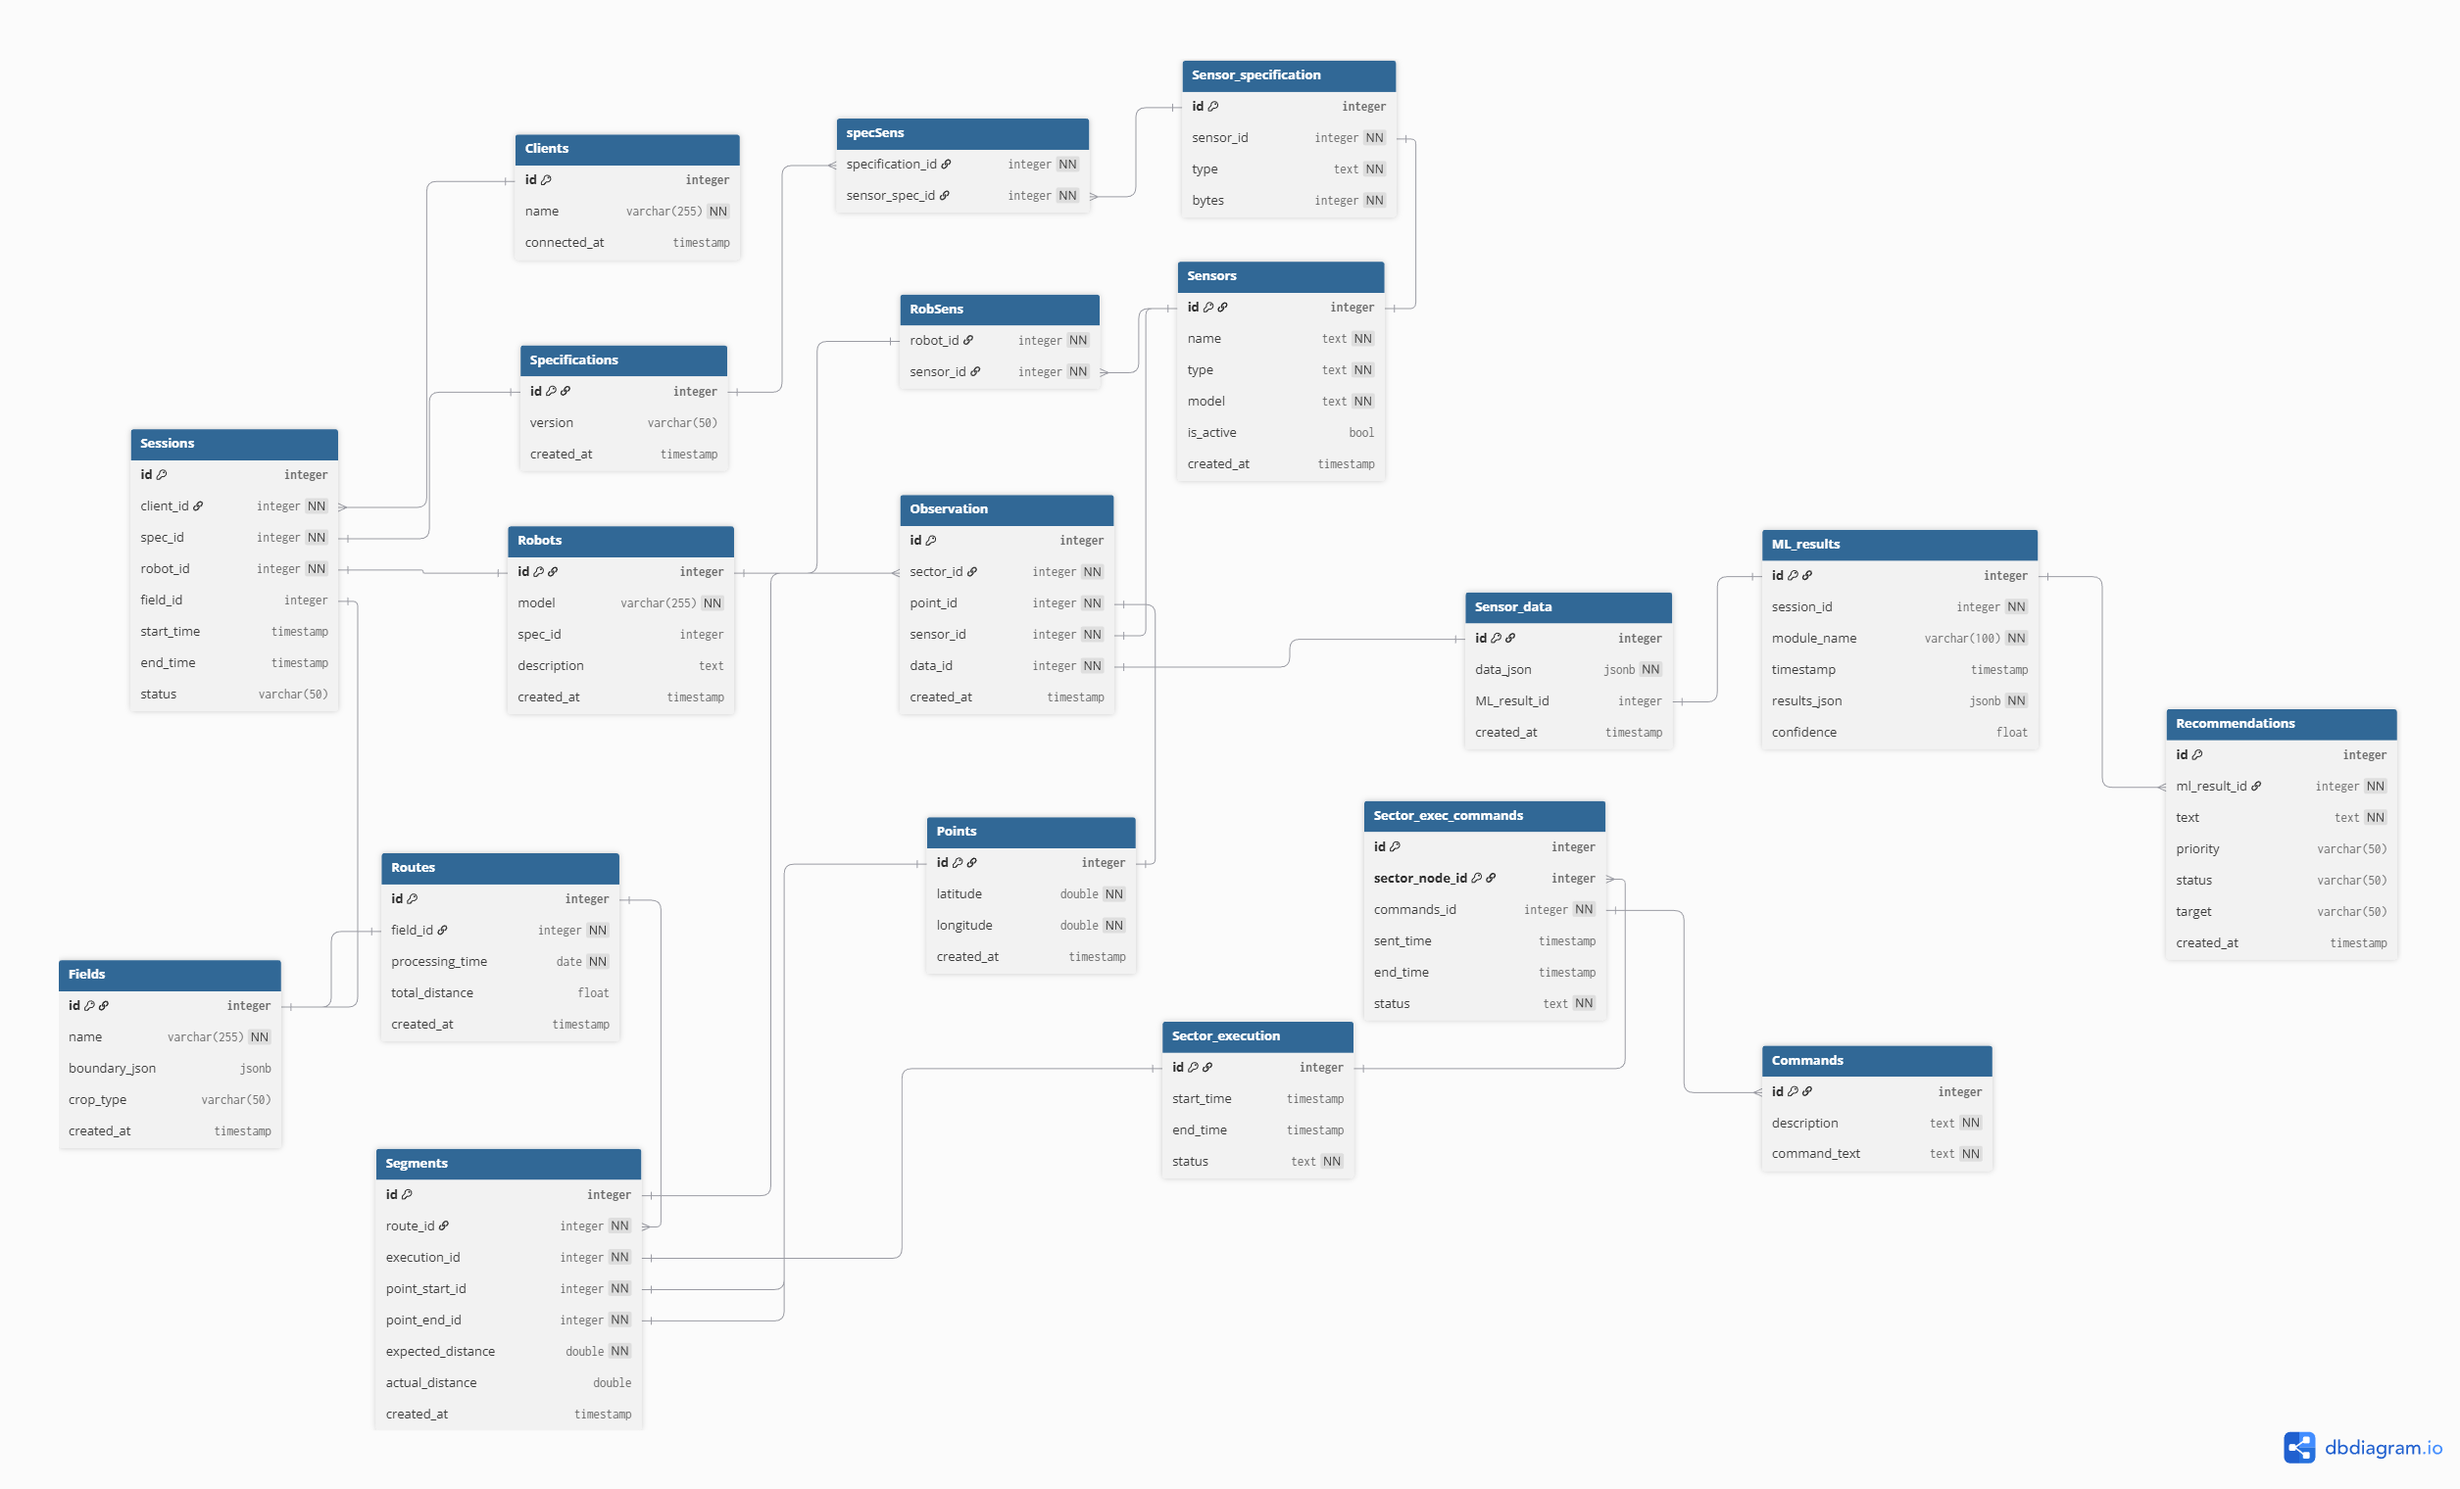
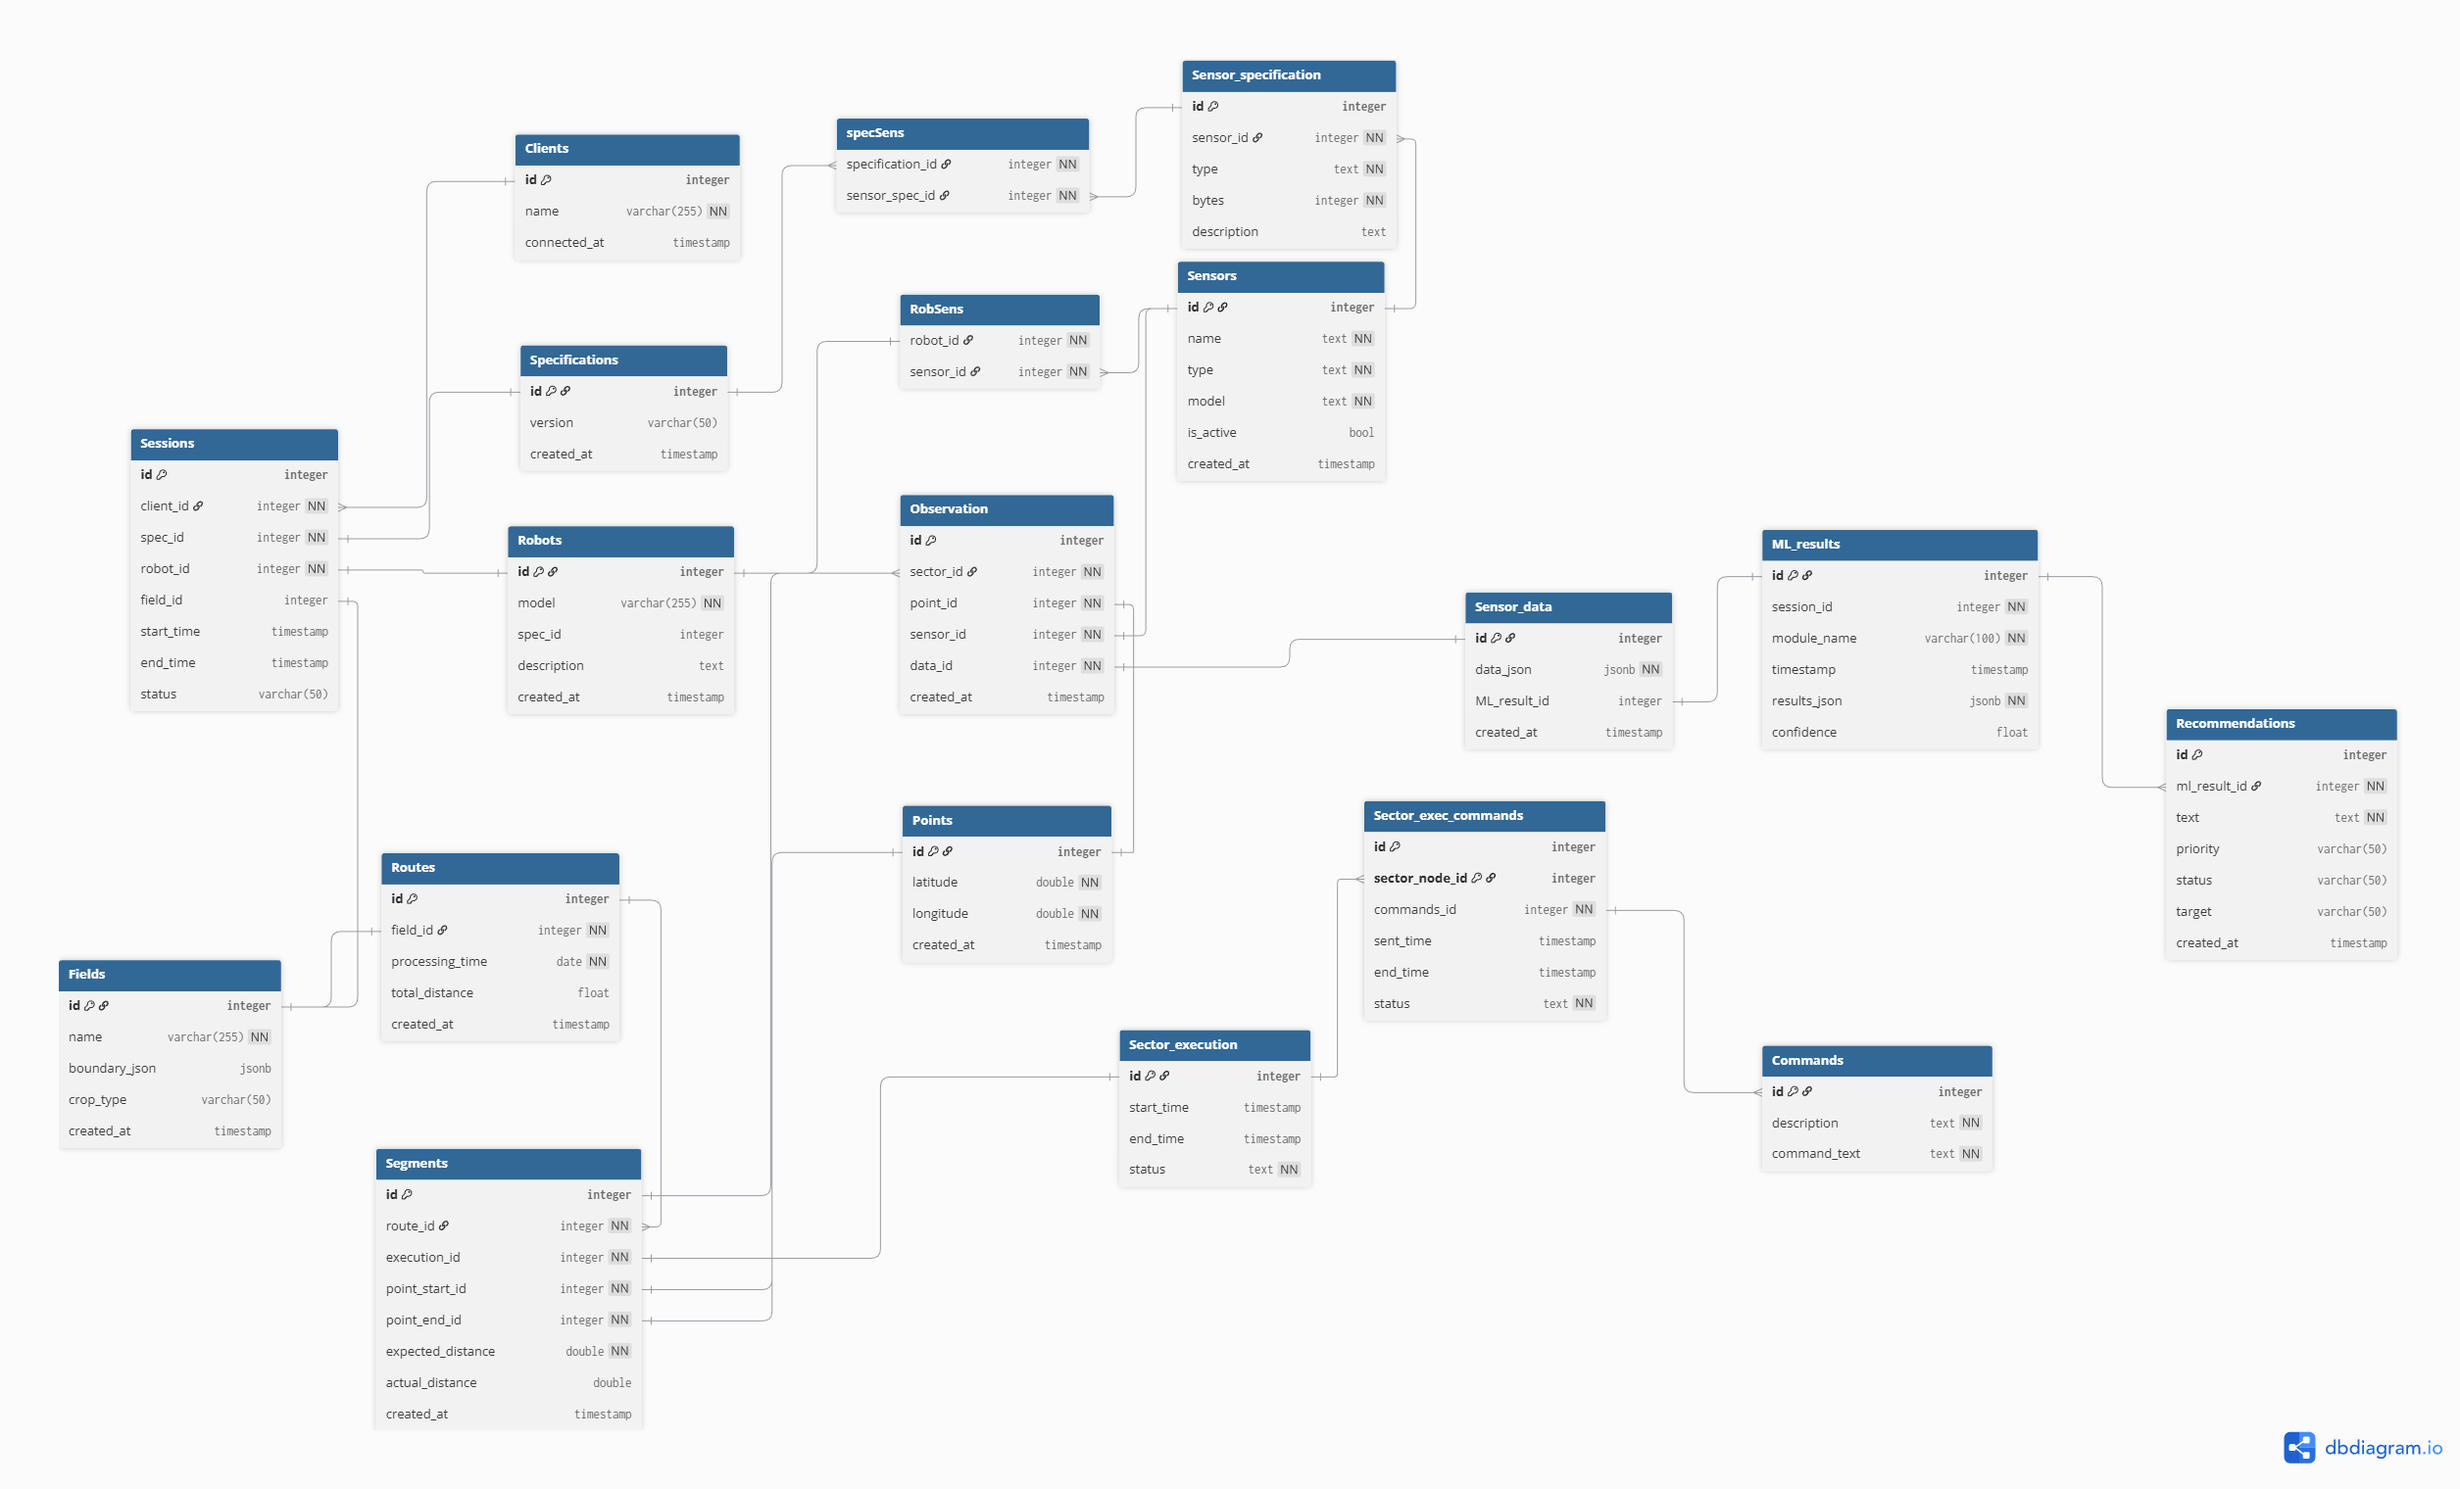
Исправила структуру SensorSpecData и методы SQLiteDb, обновила schema.sql

Changed region(s): [[0.3418, 0.5257, 0.4661, 0.6493], [0.4351, 0.6803, 0.5594, 0.773], [0.5283, 0.773, 0.5594, 0.8039]]

diff --git a/src/db/sqlitedb/sqlitedb.cpp b/src/db/sqlitedb/sqlitedb.cpp
@@ -208,10 +208,11 @@ StatusCode SQLiteDb::addSensorSpecification(const SensorSpecData& data)
     }
 
     QSqlQuery query(db);
-    query.prepare("INSERT INTO Sensor_specification (sensor_id, type, bytes) VALUES (:s,:t,:b)");
+    query.prepare("INSERT INTO Sensor_specification (sensor_id, type, bytes, description) VALUES (:s,:t,:b, :d)");
     query.bindValue(":s", data.sensorId);
     query.bindValue(":t", data.type);
     query.bindValue(":b", data.bytes);
+    query.bindValue(":d", data.description.isEmpty() ? QVariant(QVariant::String) : data.description);
 
 
     if (!query.exec()) {
@@ -270,7 +271,8 @@ StatusCode SQLiteDb::addRobSens(const RobSensData& data)
     }
 
     QSqlQuery query(db);
-    query.prepare("INSERT INTO RobSens (robot_id, sensor_id) VALUES (:robot,:sensor)");
+    query.prepare("INSERT OR IGNORE INTO RobSens (robot_id, sensor_id) VALUES (:robot,:sensor)");
+
     query.bindValue(":robot", data.robotId);
     query.bindValue(":sensor", data.sensorId);
 

diff --git a/include/datatypes.h b/include/datatypes.h
@@ -25,6 +25,7 @@ struct SensorSpecData {
     int sensorId;
     QString type;
     int bytes;
+    QString description;
 };
 
 // Связь спецификации и сенсора
